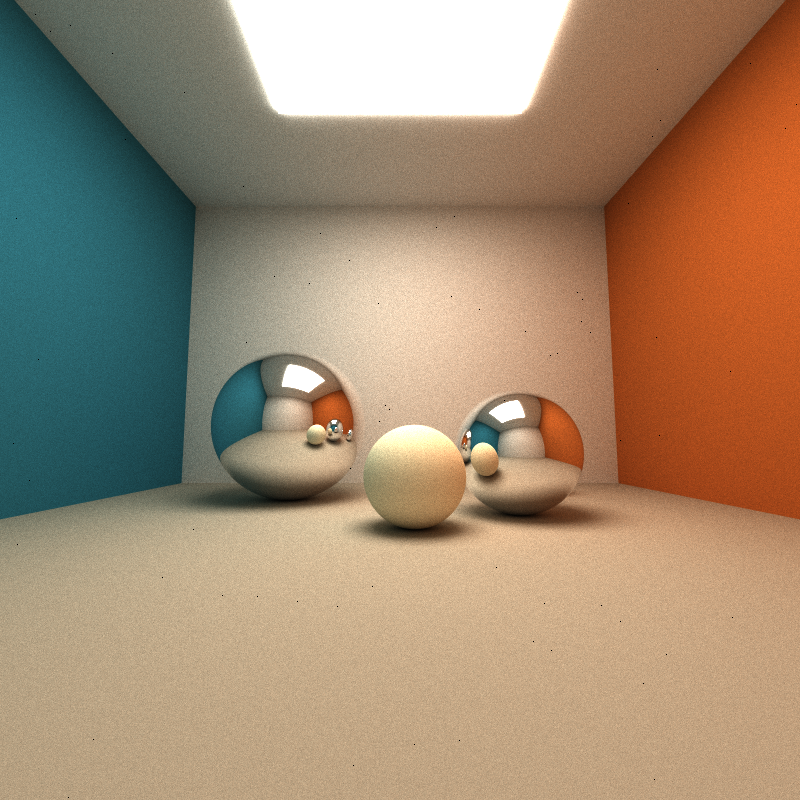
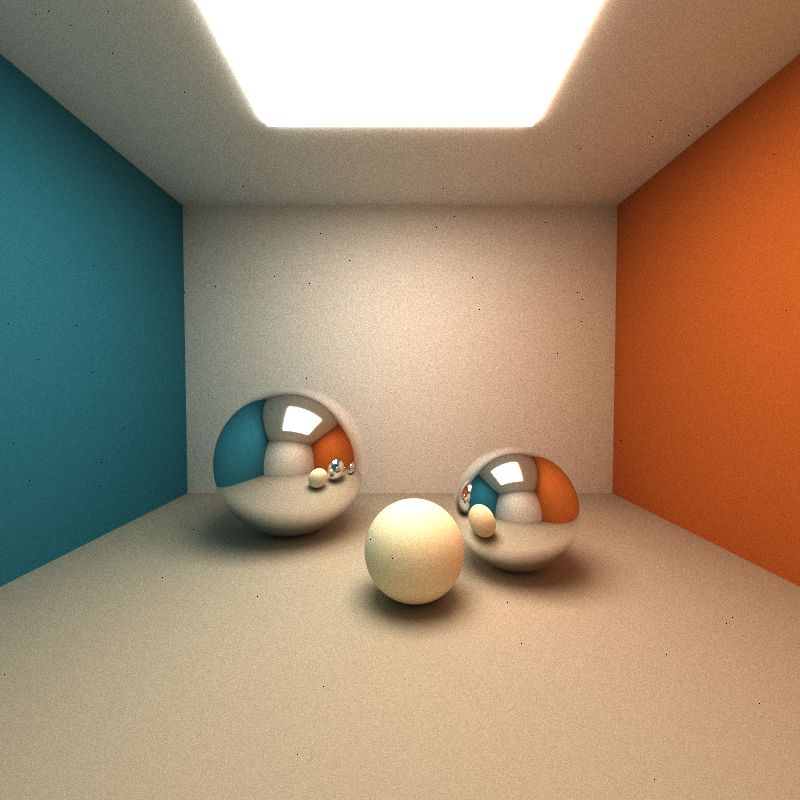
docs(readme): document depth of field and the camera fix
New depth of field section with the thin lens code, the scene format fields and their defaults, the blur circle formula, the aperture sweep and focus plane figures plus the 800x800 render, and a cost measurement (18.97 s pinhole vs 19.49 s at aperture 0.5, 800x800/300spp, medians of three interleaved runs) with the GPU-versus-CPU argument and the next optimisations.

Also records the base camera bug the feature uncovered, re-renders the cover from the now correct showcase camera (eye y = 3.0 instead of the mirrored y = 1.2, look-at raised to 2.7 for framing) and lists scenes/dof.json in the scene table.

diff --git a/README.md b/README.md
@@ -13,7 +13,7 @@ Project 3 - CUDA Path Tracer**
 *A closed room lit by a 5x5 ceiling light with three mirror spheres: global
 illumination (the teal and orange walls bleed onto the floor and onto the balls),
 one-bounce mirror reflections and soft shadowing. `scenes/showcase.json`,
-800x800, 3000 samples, 3m31s on the RTX 3060 Laptop.*
+800x800, 3000 samples, 3m55s on the RTX 3060 Laptop.*
 
 ## Overview
 
@@ -30,10 +30,13 @@ bounce loop, anti-aliasing and stream compaction.
 | 4 | Stream compaction of terminated paths - map / scan / scatter built on the work-efficient scan from my Project 2 | `src/pathtrace.cu`, `stream_compaction/` |
 | 5 | Emitter hits accumulate straight into the image, which is what allows terminated paths to be dropped | `src/pathtrace.cu` |
 | 6 | Per-bounce ray counting for the analysis (`[profile] ...` on stdout) | `src/pathtrace.cu` |
+| 7 | Physically based depth of field: thin lens camera driven by two optional scene fields (`APERTURE`, `FOCUS`), off by default | `src/pathtrace.cu`, `src/scene.cpp` |
+| 8 | Camera basis and orbit camera fixes (the base code mirrored the pitch and put the eye below the floor whenever a scene looked downwards) | `src/scene.cpp`, `src/main.cpp` |
 
 The two features that change the image (#3, #4) are behind `#define`s
 (`STOCHASTIC_AA`, `STREAM_COMPACTION`), so every number below can be reproduced by
-flipping one line and rebuilding.
+flipping one line and rebuilding; #7 is off unless a scene asks for it, so the
+pinhole path stays bit-identical to what the previous sections measured.
 
 ## Implementation
 
@@ -94,9 +97,12 @@ removes the stair-stepping on silhouettes:
 // is [x, x+1) and the jitter has to span [0, 1)
 float sampleX = (float)x;
 float sampleY = (float)y;
+
+// depth tag -1 gives the camera ray a random stream of its own
+thrust::default_random_engine rng = makeSeededRandomEngine(iter, index, -1);
+thrust::uniform_real_distribution<float> u01(0.0f, 1.0f);
+
 #if STOCHASTIC_AA
-    thrust::default_random_engine rng = makeSeededRandomEngine(iter, index, -1);
-    thrust::uniform_real_distribution<float> u01(0.0f, 1.0f);
     sampleX += u01(rng);
     sampleY += u01(rng);
 #endif
@@ -109,6 +115,11 @@ And the offset has to cover `[0, 1)` rather than `[-0.5, 0.5)`: with a `+/- 0.5`
 jitter a pixel also samples half of its neighbour, which behaves like a box filter
 shifted by half a pixel and measurably does *not* reduce the error against a
 supersampled reference.
+
+The camera random stream is created unconditionally (and the jitter only drawn
+under `#if STOCHASTIC_AA`) because the depth of field below reuses the same stream:
+with `STOCHASTIC_AA` off the two draws then go to the lens sample instead of being
+wasted.
 
 ### Stream compaction
 
@@ -145,6 +156,104 @@ Stream compaction is a pure optimization - with it enabled the image is
 **bit-identical** to rendering with it disabled (`RMSE = 0` over the whole 800x800
 image), because the RNG seed is `(iteration, pixelIndex, depth)` and does not
 depend on the array slot a path happens to live in.
+
+### Depth of field
+
+A pinhole camera is sharp at every distance. The thin lens model replaces the
+single eye point with a disk of radius `APERTURE` and aims every ray at the point
+where the *pinhole* ray crosses the focal plane at distance `FOCUS`, so a point at
+exactly that distance is still imaged to a single point no matter where on the
+lens the ray started:
+
+```cpp
+// pinholeDirection is the direction the camera would fire with aperture == 0
+if (cam.aperture > 0.0f && cam.focalDistance > 0.0f)
+{
+    float radius = cam.aperture * sqrtf(u01(rng));   // sqrt = uniform over the disk
+    float angle  = TWO_PI * u01(rng);
+    glm::vec3 lensPoint  = cam.position
+        + cam.right * (radius * cosf(angle))
+        + cam.up    * (radius * sinf(angle));
+    glm::vec3 focalPoint = cam.position + pinholeDirection * cam.focalDistance;
+
+    segment.ray.origin    = lensPoint;
+    segment.ray.direction = glm::normalize(focalPoint - lensPoint);
+}
+else
+{
+    segment.ray.origin    = cam.position;
+    segment.ray.direction = pinholeDirection;
+}
+```
+
+The square root is what makes the samples uniform over the *area* of the disk
+rather than clumped around its centre, and drawing `radius` and `angle` from the
+same camera-ray stream that anti-aliasing uses means the pixel position and the
+lens position vary together over the iterations - the estimator becomes an average
+over the pixel *and* over the lens. Because both random numbers are always drawn
+in this branch, switching anti-aliasing off simply hands two draws to the lens
+sample instead of wasting them.
+
+Two optional fields were added to the scene format:
+
+| field | meaning | default |
+|---|---|---|
+| `APERTURE` | lens radius in world units, `0` keeps the camera a pinhole | `0` |
+| `FOCUS` | distance of the focal plane | `\|lookAt - position\|` |
+
+`FOCUS` defaults to the distance of the look-at point, i.e. "the thing I am looking
+at is in focus", and `APERTURE` defaults to a pinhole - so every scene written
+before this feature, and every measurement in this README, keeps rendering through
+the original pinhole path. The blur of a point at distance `z` is a disk of
+diameter
+
+$$
+c = 2 \cdot \text{aperture} \cdot \frac{|z - \text{FOCUS}|}{z}
+$$
+
+world units at that depth (similar triangles between the lens and the focal
+plane), which grows linearly with the aperture and is asymmetric around the focus
+plane: at a fixed aperture an object twice as far away is blurred half as much as
+one twice as close.
+
+![](img/dof-aperture-sweep.png)
+
+*Aperture sweep at a fixed focus distance of 8.75, the third mirror sphere. 400x400,
+1500 samples: with the aperture closed (top left) every sphere is equally sharp;
+opening it blurs the near diffuse ball and the first two mirrors while the sphere
+at the focus distance stays crisp. The shadows under the balls blur with their
+casters, which is the geometrically correct behaviour and the usual tell of a real
+lens.*
+
+![](img/dof-focus-plane.png)
+
+*The same scene at aperture 0.5 with the focal plane moved onto the near ball
+(3.80), onto the third mirror (8.75) and onto the last mirror (12.71). The ball is
+2.8 units across and its blur disk at 3.80 is `2 * 0.5 * |3.8 - 8.75| / 3.8` = 1.30
+units, almost half its diameter - which is why the ball is sharp while the room
+behind it dissolves in the left panel, and why every mirror except the last one is
+blurred in the right one.*
+
+![](img/dof.png)
+
+*`scenes/dof.json` at 800x800, 2000 samples, aperture 0.25: the focus plane sits on
+the third of the five mirrors running away from the camera.*
+
+**A camera bug this feature uncovered.** Writing the scene for this feature turned
+up a bug in the base code's interactive camera. `main()` recovers the orbit camera
+parameters (azimuth, elevation, distance) from the scene's `EYE`/`LOOKAT` pair,
+and `runCuda()` rebuilds the eye position and the basis from them, so the two have
+to be exact inverses. The recovery used `acos(normalize((0, view.y, view.z)) . (0,
+1, 0))`, which is the *mirror* of the elevation rather than the elevation: any
+scene that looks downwards (including the supplied `scenes/showcase.json`) had its
+pitch flipped and its eye mirrored below the look-at point - the DOF scene put the
+camera under the floor, looking up, and rendered black. The elevation is now
+recovered as `acos(-forward.y)` with `forward` the unit eye-to-look-at vector, and
+the camera basis is normalised (`cross(view, up)` was used unnormalised, which
+squeezed the horizontal field of view of every tilted camera). Both changes are
+exact no-ops for a level camera: the Cornell images in this README are
+bit-identical before and after the fix, and the cover image was re-rendered
+because `scenes/showcase.json` intentionally looks down.
 
 ## Performance Analysis
 
@@ -209,6 +318,39 @@ off, right: AA on) shows the same thing:
 
 ![](img/aa-comparison.png)
 
+### Depth of field: cost
+
+The thin lens model costs two extra random numbers, a square root and a
+sine/cosine pair - but only on the **camera** ray, never on the interior bounces
+that dominate a render. Interleaved runs of the same scene (800x800, 300 spp, three
+runs each, medians):
+
+| aperture | median render time | vs pinhole |
+|---|---:|---:|
+| 0.0 (pinhole) | 18.97 s | - |
+| 0.5 | 19.49 s | +2.7% |
+
+Individual runs were 18.75 / 19.72 / 18.97 s and 19.49 / 19.26 / 19.91 s, so the
+2.7% is at the edge of run-to-run spread - the honest reading is "under 3%, of the
+same order as the two extra RNG draws it actually adds".
+
+On a hypothetical CPU version of this renderer the two extra lines would cost the
+same per ray, and the feature would look just as cheap in a profiler - but it would
+be paid *serially*, once per ray, on every one of the millions of camera rays.
+What makes it free here is that the work is per-ray and has no cross-ray
+communication: no extra memory traffic (the lens offset is two registers), no
+divergence (the `aperture > 0` branch is uniform across the grid, and the rest is
+straight-line arithmetic), and the camera kernel is a tiny fraction of the frame
+time next to 8 bounces of intersection and shading. Depth of field therefore scales
+with the number of pixels, not with the depth of the paths, which is the opposite
+of every other feature in this project.
+
+Two obvious next steps if it ever showed up in a profile: sample the disk from a
+precomputed low-discrepancy table (a concentric or Sobol disk) instead of
+`sqrt`/`cos`/`sin` per ray, and fold the four camera-ray random numbers (two for
+anti-aliasing, two for the lens) into one stratified 4D sample so that the pixel
+area *and* the lens disk are jointly stratified instead of independently jittered.
+
 ### Validation against the reference image
 
 `img/REFERENCE_cornell.5000samp.png` ships with the base code and my render
@@ -233,6 +375,7 @@ specular as a core feature, so the sphere reflects the room instead.
 | `scenes/cornell.json` | the supplied Cornell box (open towards the camera) |
 | `scenes/cornell_closed.json` | the same box with a front wall and the camera moved inside, so no ray can escape - the closed case of the compaction analysis |
 | `scenes/showcase.json` | the cover image: a closed room, a 5x5 ceiling light, three mirror spheres and a diffuse ball |
+| `scenes/dof.json` | the depth of field scene: five mirrors receding from the camera, a near diffuse ball and `APERTURE` / `FOCUS` in the camera block |
 
 No meshes or texture files are used, so nothing has to be downloaded to render
 them.
@@ -266,7 +409,8 @@ uncommented to link my Project 2 implementation, and
   built from the cubes and spheres the base code already supports.
 * References used for the shading: PBRT v4 sections 9.2 (diffuse reflection) and
   9.3 (specular reflection and transmission), GPU Gems 3, Ch. 20 for the specular
-  sampling model, and Paul Bourke's raytracing notes for anti-aliasing.
+  sampling model, Paul Bourke's raytracing notes for anti-aliasing, and PBRT v4
+  section 5.2.3 (the thin lens model) for the depth of field camera.
 * The code in this project was written with the help of AI agents (pair
   programming over the CUDA/C++ sources, the build fixes and this README), in line
   with the course's third-party code policy.
